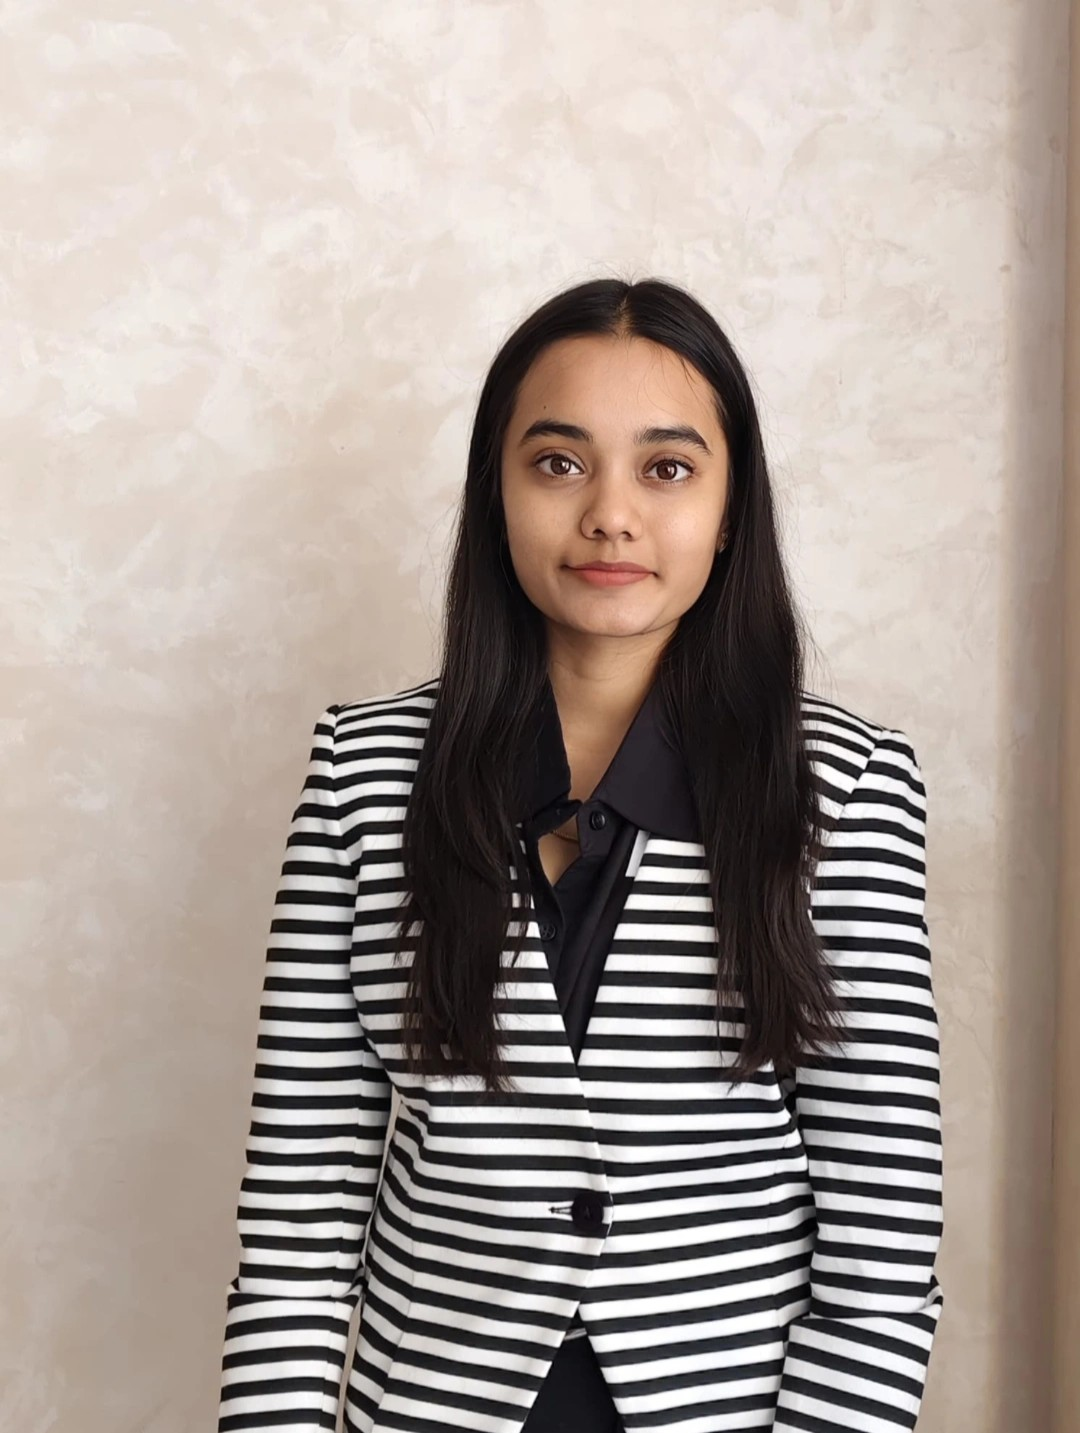
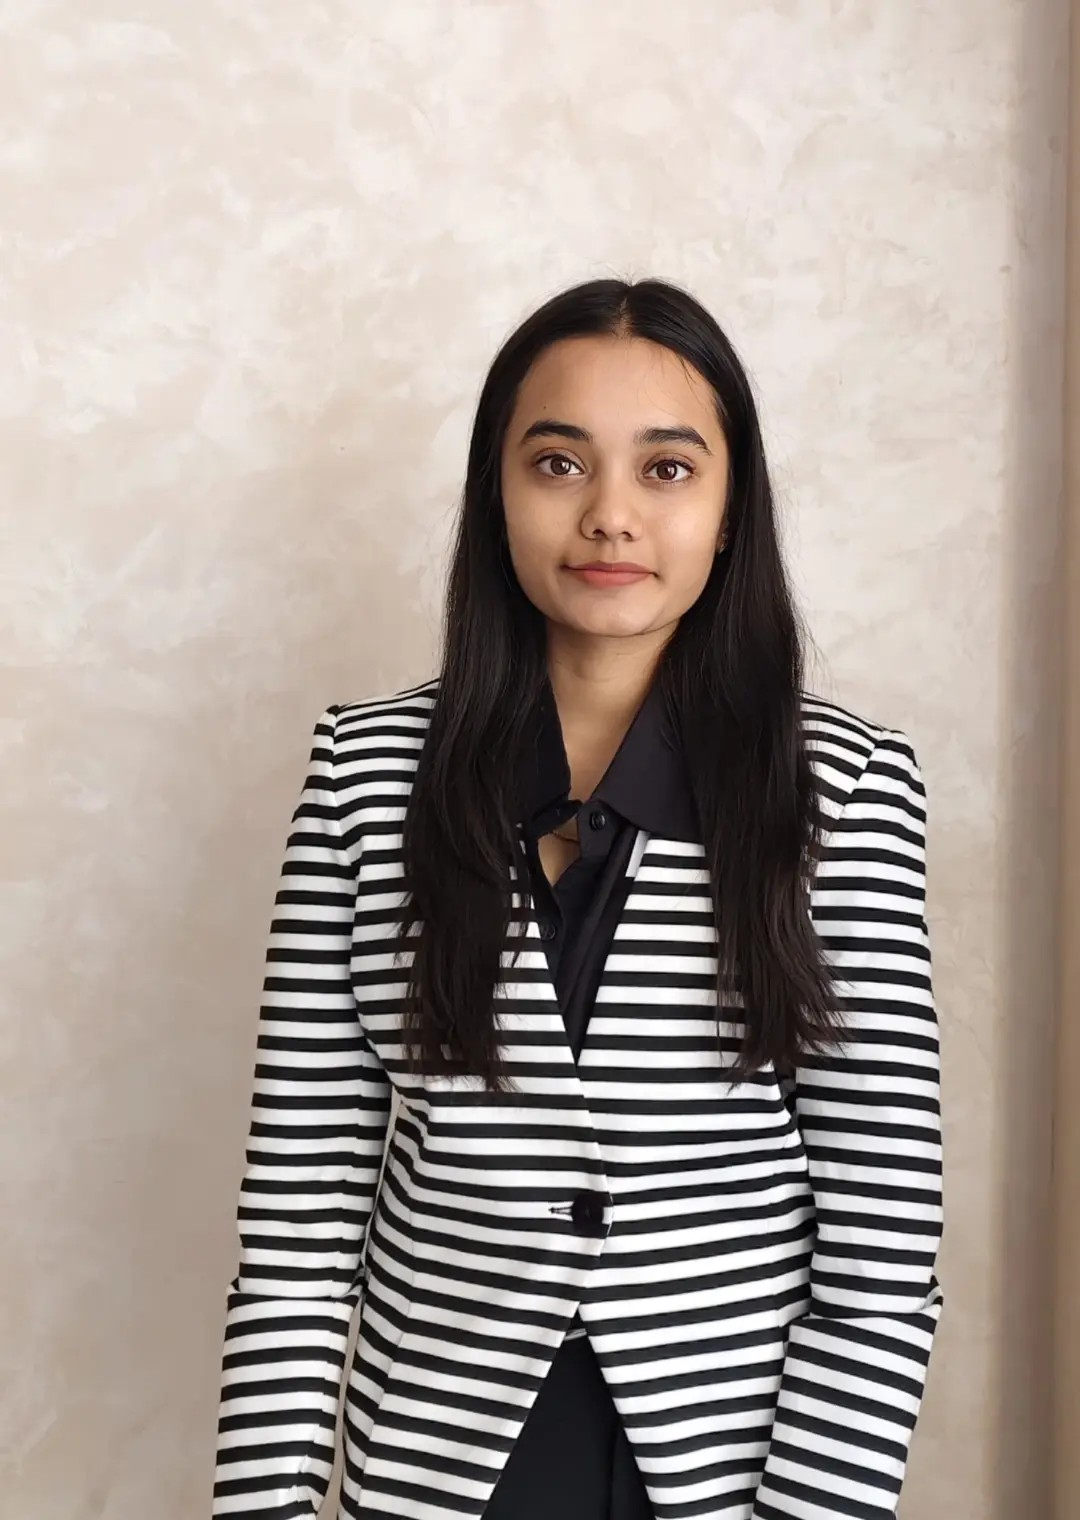
Photos updated

Changed region(s): [[0.1833, 0.1842, 0.9167, 1.0]]

diff --git a/src/components/Executive.jsx b/src/components/Executive.jsx
@@ -46,11 +46,11 @@ export default function Executive() {
           <div className='relative'>
             <div className=' overflow-hidden shadow-xl bg-emerald-700  '>
               <div className='absolute -mt-28 w-full flex justify-center'>
-                <div className='h-60 w-60 bg-emerald-800 hover:bg-gradient-to-r hover:from-fuchsia-600 hover:to-purple-600 p-1 rounded-xl shadow-3xl'>
+                <div className='h-60 w-60 bg-emerald-800 p-1 rounded-xl shadow-3xl'>
                   <img
-                    src='/assets/Harshada_Chandel.jpg'
+                    src='/assets/Harshada_Chandel.webp'
                     alt
-                    className=' object-cover h-full w-full rounded-xl shadow-2xl transform transition duration-500 hover:scale-125	'
+                    className=' object-cover h-full w-full rounded-xl shadow-2xl	'
                   />
                 </div>
               </div>
@@ -70,11 +70,11 @@ export default function Executive() {
           <div className='relative'>
             <div className=' overflow-hidden shadow-xl bg-emerald-700  '>
               <div className='absolute -mt-28 w-full flex justify-center'>
-                <div className='h-60 w-60 bg-emerald-800 hover:bg-gradient-to-r hover:from-fuchsia-600 hover:to-purple-600 p-1 rounded-xl shadow-3xl'>
+                <div className='h-60 w-60 bg-emerald-800 p-1 rounded-xl shadow-3xl'>
                   <img
-                    src='/assets/Salil_Mishra.jpeg'
+                    src='/assets/Salil_Mishra.webp'
                     alt
-                    className=' object-cover h-full w-full rounded-xl shadow-2xl transform transition duration-500 hover:scale-125	'
+                    className=' object-cover h-full w-full rounded-xl shadow-2xl	'
                   />
                 </div>
               </div>
@@ -94,11 +94,11 @@ export default function Executive() {
           <div className='relative'>
             <div className=' overflow-hidden shadow-xl bg-emerald-700  '>
               <div className='absolute -mt-28 w-full flex justify-center'>
-                <div className='h-60 w-60 bg-emerald-800 hover:bg-gradient-to-r hover:from-fuchsia-600 hover:to-purple-600 p-1 rounded-xl shadow-3xl'>
+                <div className='h-60 w-60 bg-emerald-800 p-1 rounded-xl shadow-3xl'>
                   <img
-                    src='/assets/Heer_Sharma.jpg'
+                    src='/assets/Heer_Sharma.webp'
                     alt
-                    className=' object-cover h-full w-full rounded-xl shadow-2xl transform transition duration-500 hover:scale-125	'
+                    className=' object-cover h-full w-full rounded-xl shadow-2xl	'
                   />
                 </div>
               </div>
@@ -118,11 +118,11 @@ export default function Executive() {
           <div className='relative'>
             <div className=' overflow-hidden shadow-xl bg-emerald-700  '>
               <div className='absolute -mt-28 w-full flex justify-center'>
-                <div className='h-60 w-60 bg-emerald-800 hover:bg-gradient-to-r hover:from-fuchsia-600 hover:to-purple-600 p-1 rounded-xl shadow-3xl'>
+                <div className='h-60 w-60 bg-emerald-800 p-1 rounded-xl shadow-3xl'>
                   <img
                     src='/assets/Manvi_Bindal.jpg'
                     alt
-                    className=' object-cover h-full w-full rounded-xl shadow-2xl transform transition duration-500 hover:scale-125	'
+                    className=' object-cover h-full w-full rounded-xl shadow-2xl	'
                   />
                 </div>
               </div>
@@ -142,11 +142,11 @@ export default function Executive() {
           <div className='relative'>
             <div className=' overflow-hidden shadow-xl bg-emerald-700  '>
               <div className='absolute -mt-28 w-full flex justify-center'>
-                <div className='h-60 w-60 bg-emerald-800 hover:bg-gradient-to-r hover:from-fuchsia-600 hover:to-purple-600 p-1 rounded-xl shadow-3xl'>
+                <div className='h-60 w-60 bg-emerald-800 p-1 rounded-xl shadow-3xl'>
                   <img
-                    src='/assets/Vidhi_Omar.jpg'
+                    src='/assets/Vidhi_Omar.webp'
                     alt
-                    className=' object-cover h-full w-full rounded-xl shadow-2xl transform transition duration-500 hover:scale-125	'
+                    className=' object-cover h-full w-full rounded-xl shadow-2xl	'
                   />
                 </div>
               </div>
@@ -166,11 +166,11 @@ export default function Executive() {
           <div className='relative'>
             <div className=' overflow-hidden shadow-xl bg-emerald-700  '>
               <div className='absolute -mt-28 w-full flex justify-center'>
-                <div className='h-60 w-60 bg-emerald-800 hover:bg-gradient-to-r hover:from-fuchsia-600 hover:to-purple-600 p-1 rounded-xl shadow-3xl'>
+                <div className='h-60 w-60 bg-emerald-800 p-1 rounded-xl shadow-3xl'>
                   <img
-                    src='/assets/Aayush_Sharma.jpeg'
+                    src='/assets/Aayush_Sharma.webp'
                     alt
-                    className=' object-cover h-full w-full rounded-xl shadow-2xl transform transition duration-500 hover:scale-125	'
+                    className=' object-cover h-full w-full rounded-xl shadow-2xl	'
                   />
                 </div>
               </div>

diff --git a/src/pages/Teams.jsx b/src/pages/Teams.jsx
@@ -51,7 +51,7 @@ export default function Teams() {
             <div className="relative w-56 h-56 mb-4 rounded-full overflow-hidden shadow-lg">
               <img
                 className="object-cover w-full h-full"
-                src="/assets/Akhilesh_V.jpg"
+                src="/assets/Akhilesh_V.webp"
                 alt="Akhilesh V"
               />
             </div>
@@ -63,7 +63,7 @@ export default function Teams() {
             <div className="relative w-56 h-56 mb-4 rounded-full overflow-hidden shadow-lg">
               <img
                 className="object-cover w-full h-full"
-                src="/assets/Manas.jpg"
+                src="/assets/Manas.webp"
                 alt="Manas Shrivastava"
               />
             </div>

diff --git a/src/App.jsx b/src/App.jsx
@@ -12,6 +12,7 @@ import ClubWebsite from './components/ClubWebsite';
 import Blog1Detail from "./components/Blog1Detail";
 import Blog1 from "./components/Blog1";
 import Alphasia from './pages/Alphasia.jsx';
+import UniWay from './pages/UniWay.jsx'
 import NextPage from './components/NextPage.jsx';
 function App() {
   return (
@@ -30,6 +31,7 @@ function App() {
             <Route path="/teams" element={<Teams />} />
             <Route path="/terminal" element={<ClubWebsite />} />
             <Route path="/Alphasia" element={<Alphasia />} />
+            <Route path="/UniWay" element={<UniWay />} />
             <Route path="/next-page" element={<NextPage />} />
             <Route path="*" element={<Home />} />
           </Routes>

diff --git a/src/pages/UniWay.jsx b/src/pages/UniWay.jsx
@@ -1,0 +1,8 @@
+export default function UniWay() {
+
+    return (
+        <>
+            <h2 className="text-4xl font-bold text-white text-center mb-12">Hello</h2>
+        </>
+    );
+}
